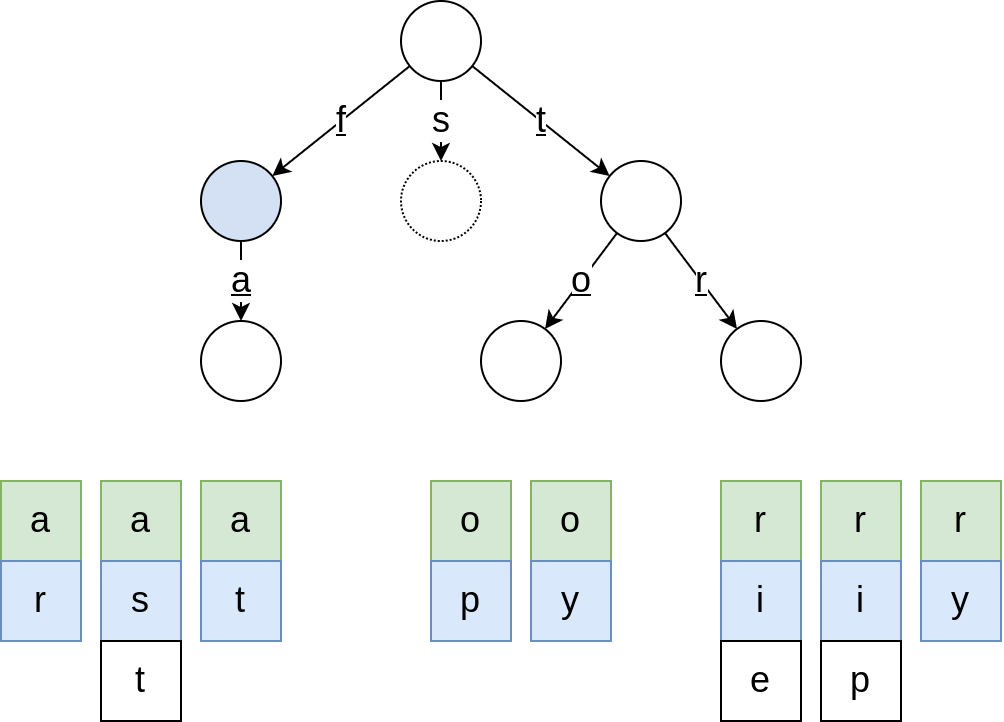
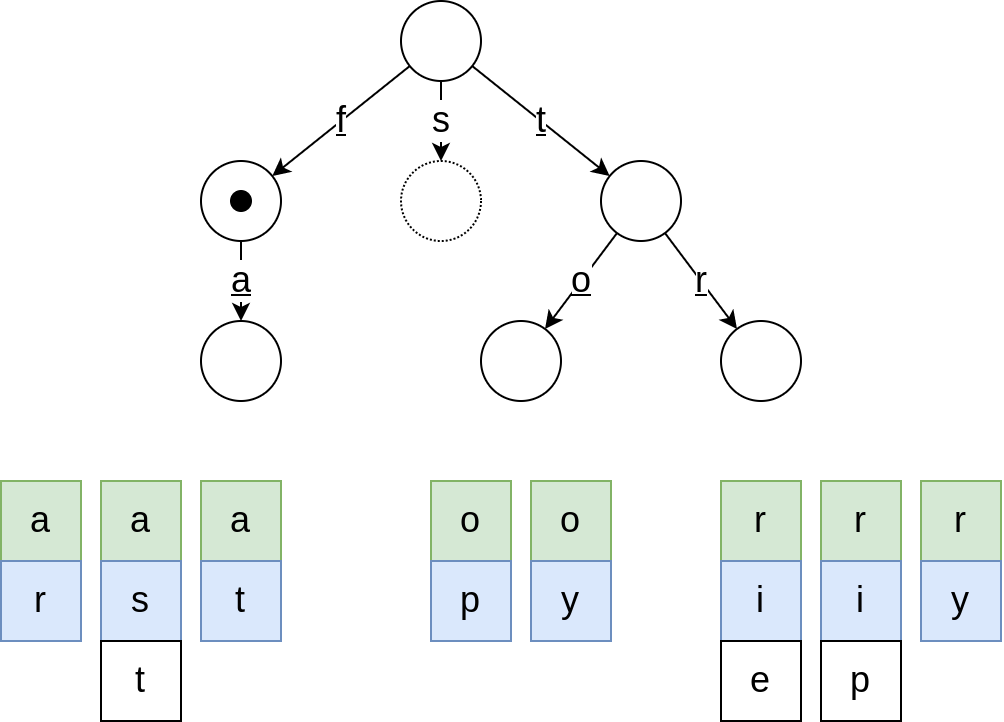
Further work on presentation.

Changed region(s): [[0.1853, 0.2133, 0.2779, 0.3352]]

diff --git a/presentation/surf.tex b/presentation/surf.tex
@@ -3,7 +3,7 @@
 \usepackage{pgfpages}
 % Note rendering settings
 % \setbeameroption{hide notes} % Default
-% \setbeameroption{show notes}
+\setbeameroption{show notes}
 % \setbeameroption{show only notes}
 % \setbeameroption{show notes on second screen}
 
@@ -228,6 +228,8 @@
 
 \section{Operations}
 
+\subsection{Initializing SuRF}
+
 \begin{frame}{Initializing SuRF}
 		\begin{itemize}
 				\item \textbf{Goal} Given set of sorted keys, turn it into SuRF
@@ -265,6 +267,14 @@
 				\includegraphics[width=0.9\textwidth]{resources/initializing_surf_2}
 				\caption{Initializing SuRF}
 		\end{figure}
+
+		\note[item]{Edge for `f' is set (D-Labels respectively S-Labels)}
+		\note[item]{There are keys left which pass through that node, so it has
+		an FST sub-component there. (D-HasChild respectively S-HasChild)}
+		\note[item]{A key ends on that node. (D-IsPrefixKey)}
+		\note[item]{Have left out storing of values for brevity}
+		\note[item]{Edge for `s' is set}
+		\note[item]{No more keys along that path, so no FST sub-component}
 \end{frame}
 
 \begin{frame}{Initializing SuRF: Breadth-first}
@@ -289,9 +299,65 @@
 				\includegraphics[width=0.6\textwidth]{resources/initializing_surf_5}
 				\caption{Initializing SuRF}
 		\end{figure}
+
+		\note[item]{Until we finally have initialized the whole tree}
+		\note[item]{Note that some details left out: Handling change from
+		LOUDS-DENSE to LOUDS-SPARSE, values, ...}
+		\note[item]{Possible that added complexity outweights cost of copying
+		memory, so depth-first might be faster}
 \end{frame}
 
+\subsection{Lookup operations}
+
 \begin{frame}{Lookup operations}
+		\begin{itemize}
+				\item Lookup operations can be implemented as combination of
+						$\operatorname{rank}$ and $\operatorname{select}$
+						queries on LOUDS-encoded datastructure.
+				\item $\operatorname{rank}_b(x)$: Number of bits with value $b$
+						up to position $x$
+				\item $\operatorname{select}_b(x)$: Position of $x$-th bit with value $b$
+				\item $B = 100010110$, $\operatorname{rank}_0(5) = 4$,
+						$\operatorname{select}_1(2) = 4$
+				\item Constant-time with use of lookup-tables: Cache rank and
+						select every $x$ bits, only count inbetween
+		\end{itemize}
+\end{frame}
+
+\begin{frame}{Lookup operation: Example of point lookup for `toy'}
+		\begin{itemize}
+				\item Lookup of key `toy' in tree above
+				\item Example with LOUDS-SPARSE, as bitmap-heavy LOUDS-DENSE not
+						very human-friendly
+				\item Given node starting at index $p$, find index of its $k$-th child:
+						\[
+								\operatorname{select}_1(S\text{-}LOUDS, \operatorname{rank}_1(S\text{-}HasChild, p+k) + 1)
+						\]
+		\end{itemize}
+\end{frame}
+
+\begin{frame}{Lookup operation: Example of point lookup for `toy'}
+		\begin{figure}
+				\centering
+				\includegraphics[width=\textwidth]{resources/surf_point_lookup_1}
+				\caption{Point lookup for `toy'}
+		\end{figure}
+\end{frame}
+
+\begin{frame}{Lookup operation: Example of point lookup for `toy'}
+		\begin{figure}
+				\centering
+				\includegraphics[width=\textwidth]{resources/surf_point_lookup_2}
+				\caption{Point lookup for `toy'}
+		\end{figure}
+\end{frame}
+
+\begin{frame}{Lookup operation: Example of point lookup for `toy'}
+		\begin{figure}
+				\centering
+				\includegraphics[width=\textwidth]{resources/surf_point_lookup_3}
+				\caption{Point lookup for `toy'}
+		\end{figure}
 \end{frame}
 
 \section{Performance}
